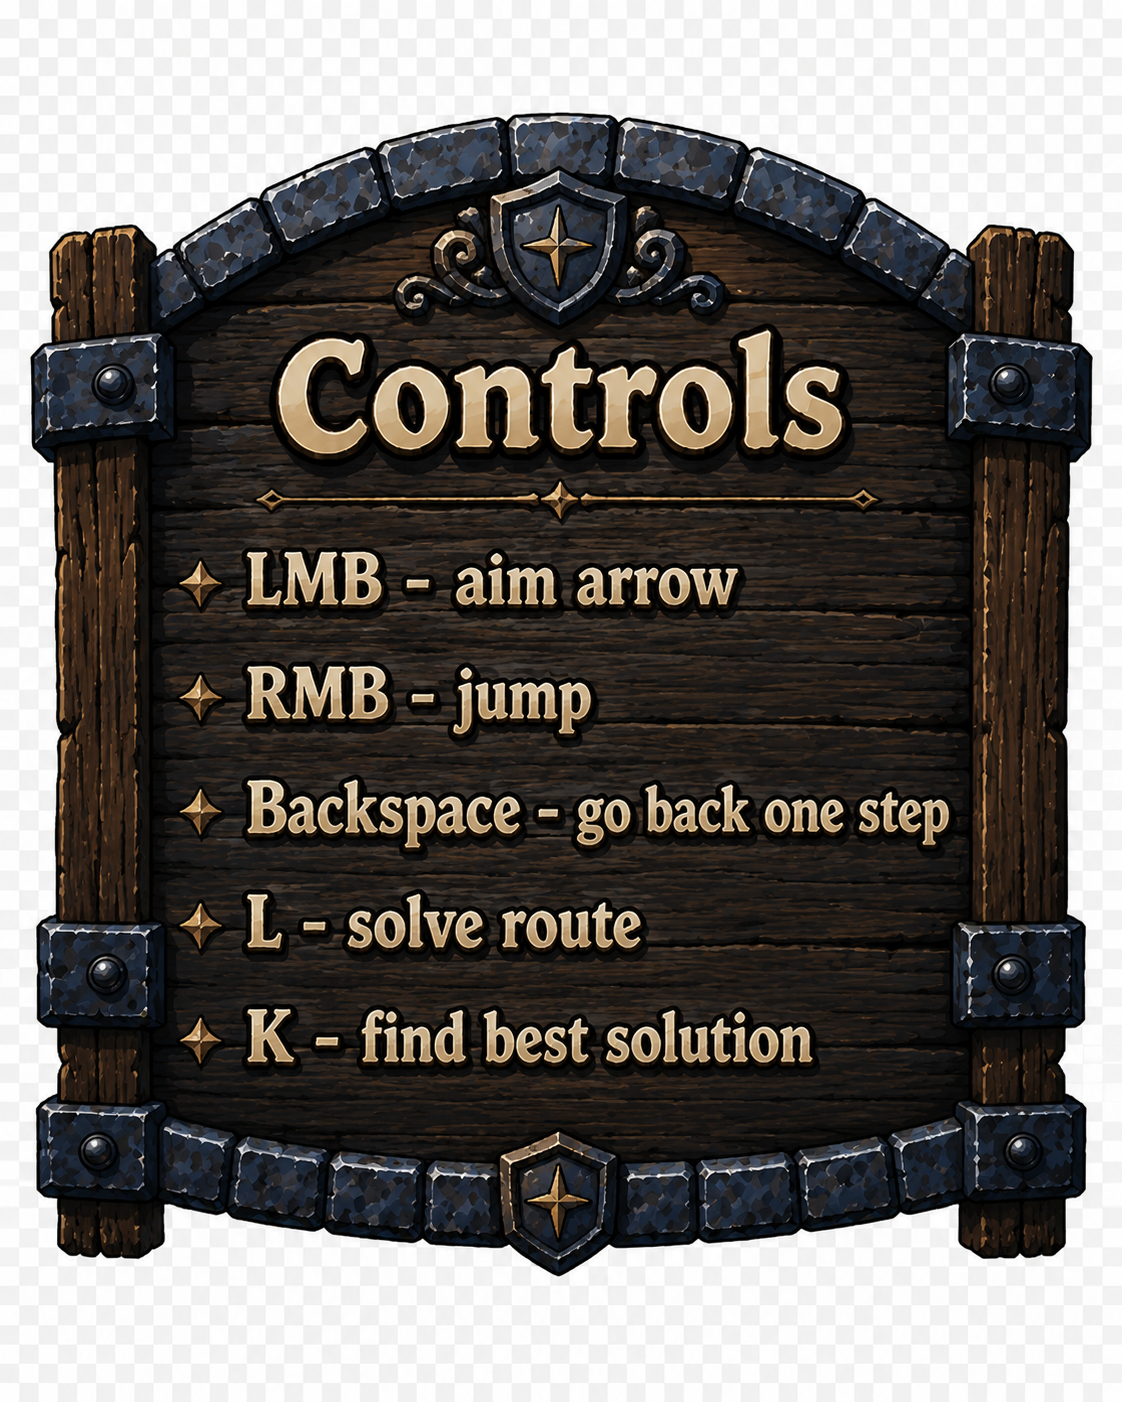
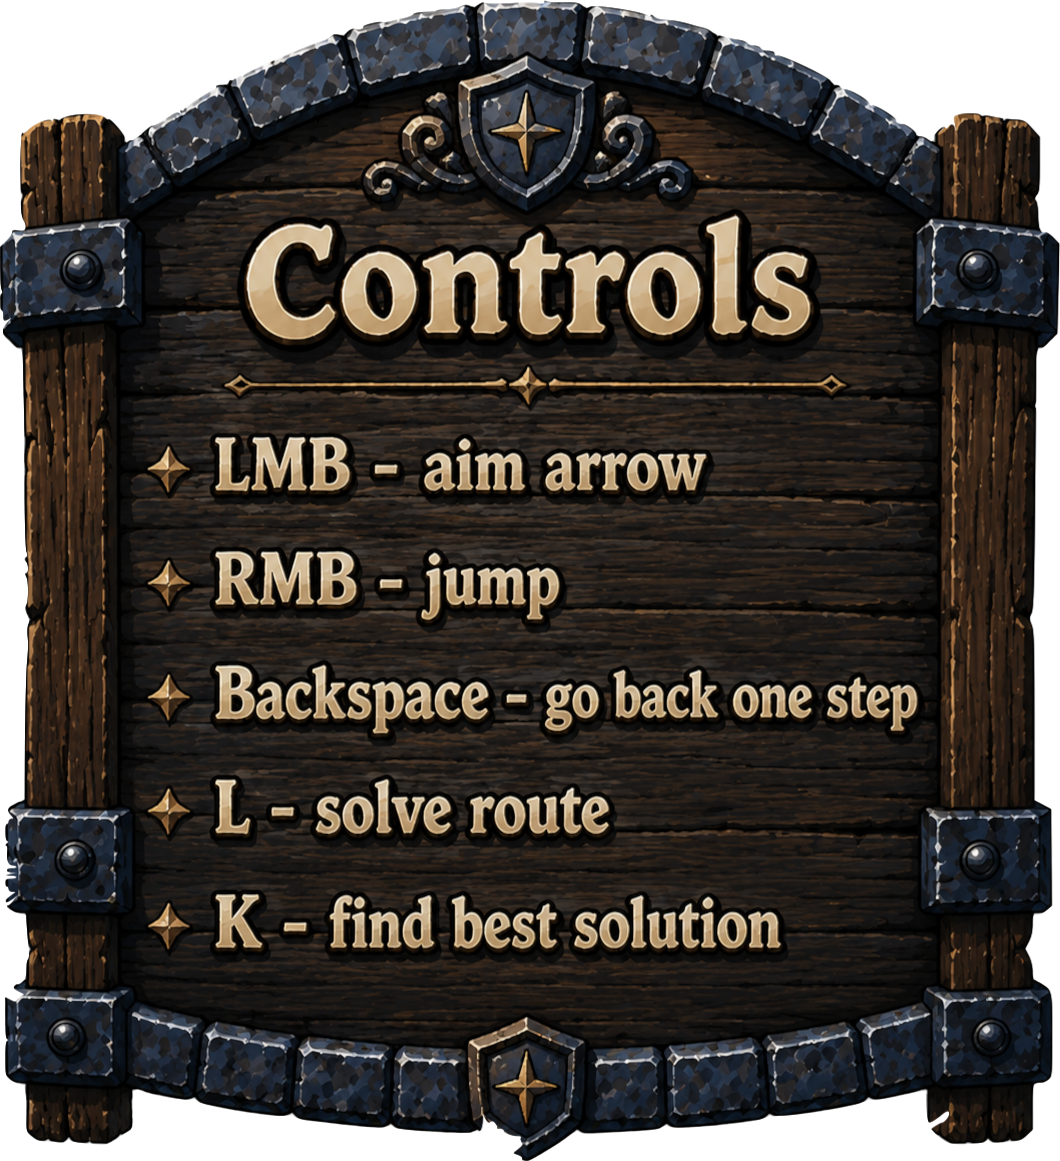
controls memu and thats it

diff --git a/affichage.py b/affichage.py
@@ -90,8 +90,15 @@ def draw_main_menu(width, height):
                                 return started, selected_level
             elif 295 <= click[0] <= 322:
                 if 355 <= click[1] <= 385:
-                    print('hints')
                     image(60, 60,'design/controls.png',largeur = 224, hauteur = 280, ancrage='nw', tag='controls')
+                    event_hint = attend_ev()
+                    if type_ev(event_hint) == 'ClicGauche':
+                        click_hint = (abscisse(event_hint), ordonnee(event_hint))
+                        if 295 <= click_hint[0] <= 322:
+                            if 355 <= click_hint[1] <= 385:
+                                efface('controls')
+
+
 
 
 
